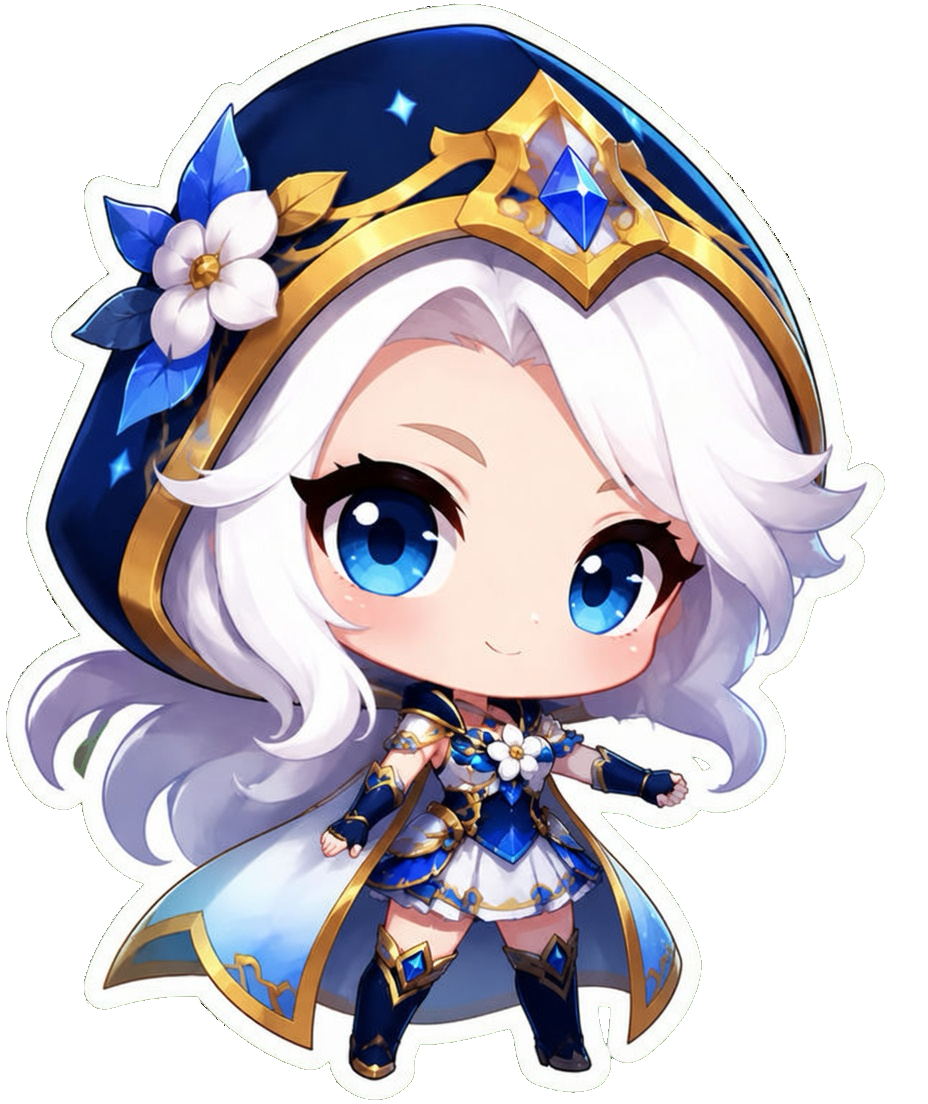
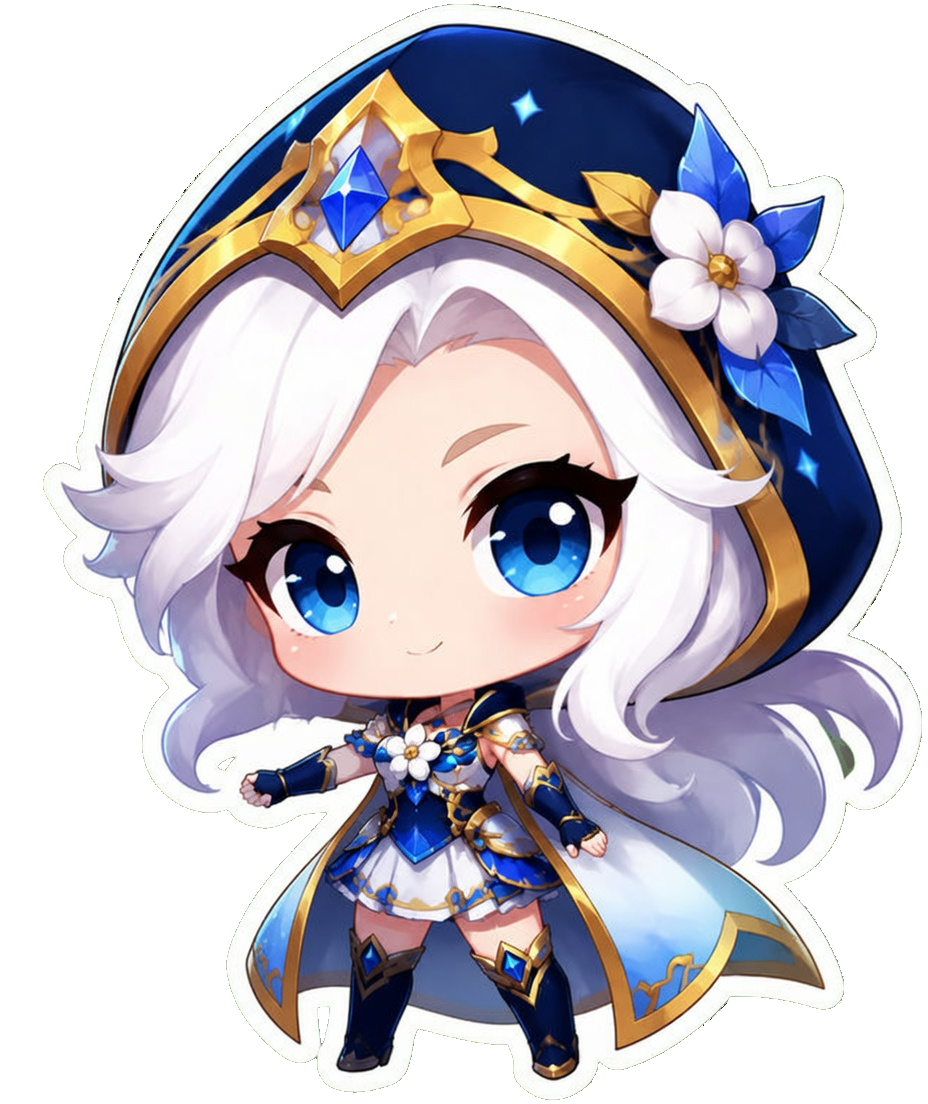
feat(data): 实现 SaveStore 存档系统与本地数据持久化

diff --git a/src/scenes/LevelScene.ts b/src/scenes/LevelScene.ts
@@ -35,8 +35,10 @@ const PLAYER_BODY_R = 18;
 const SPIDER_BODY_R = 20;
 /** 点太近不扔（屏幕像素） */
 const THROW_MIN_DIST = 12;
-/** 血条相对脚底向上的偏移（屏幕像素） */
-const HP_BAR_OFFSET_Y = 86;
+/** 玩家 HUD 血条尺寸 / 底边边距（屏幕像素） */
+const HUD_HP_WIDTH = 240;
+const HUD_HP_HEIGHT = 14;
+const HUD_HP_MARGIN_BOTTOM = 28;
 const PLAYER_MAX_HP = 100;
 /** 击退很强时削弱 WASD 控制（水平速度） */
 const KNOCK_CONTROL_SOFTEN = 220;
@@ -172,8 +174,12 @@ export class LevelScene extends Container implements GameScene {
     this.archer = new FrostArcher(0.07);
     this.sortLayer.addChild(this.archer);
 
-    // 血条在屏幕空间，不进 sortLayer（避免被树/角色遮挡 UI）
-    this.healthBar = new HealthBar({ maxHp: PLAYER_MAX_HP, width: 50, height: 5 });
+    // 玩家血条 HUD：屏幕底部，不进 worldRoot / sortLayer
+    this.healthBar = new HealthBar({
+      maxHp: PLAYER_MAX_HP,
+      width: HUD_HP_WIDTH,
+      height: HUD_HP_HEIGHT,
+    });
     this.healthBar.setHealth(PLAYER_MAX_HP);
     this.addChild(this.healthBar);
 
@@ -210,7 +216,7 @@ export class LevelScene extends Container implements GameScene {
     this.updateCameraAndPlayerBounds();
     this.applyCamera();
     this.syncWorldActors();
-    this.syncHealthBar();
+    this.layoutHealthHud();
     this.layoutPauseMenu();
   }
 
@@ -423,7 +429,6 @@ export class LevelScene extends Container implements GameScene {
     this.syncWorldActors();
     this.cullTrees();
     this.sortDepth();
-    this.syncHealthBar();
   }
 
   /** 缩到刚好看全图，镜头回到地图中心 */
@@ -436,7 +441,6 @@ export class LevelScene extends Container implements GameScene {
     this.syncWorldActors();
     this.cullTrees();
     this.sortDepth();
-    this.syncHealthBar();
   }
 
   private readonly onWheel = (e: WheelEvent): void => {
@@ -510,7 +514,6 @@ export class LevelScene extends Container implements GameScene {
     this.syncWorldActors();
     this.archer.update(deltaMS, moving && !airborne && knockSpeed < 80);
     this.healthBar.update(deltaMS);
-    this.syncHealthBar();
 
     for (const spider of this.spiders) {
       if (!spider.isAlive) continue;
@@ -555,7 +558,6 @@ export class LevelScene extends Container implements GameScene {
     this.updateCameraAndPlayerBounds();
     this.applyCamera();
     this.syncWorldActors();
-    this.syncHealthBar();
     this.sortDepth();
   }
 
@@ -569,7 +571,7 @@ export class LevelScene extends Container implements GameScene {
     this.syncWorldActors();
     this.cullTrees();
     this.sortDepth();
-    this.syncHealthBar();
+    this.layoutHealthHud();
     // 夜色层按地图尺寸铺在地面，不随视口改
     this.layoutPauseMenu();
   }
@@ -674,7 +676,7 @@ export class LevelScene extends Container implements GameScene {
    * 半径 / 伤害 / 击飞速度等全部读 bomb.blast。
    */
   private applyBombBlast(bomb: BombProjectile): void {
-    const face: 1 | -1 = this.archer.scale.x >= 0 ? 1 : -1;
+    const face = this.archer.facingDir;
     const playerHit = bomb.evaluateHit(this.worldX, this.worldY, face);
     if (playerHit) {
       this.healthBar.applyDelta(-playerHit.damage);
@@ -723,15 +725,12 @@ export class LevelScene extends Container implements GameScene {
     this.keyboard.clear();
   }
 
-  /** 血条：世界坐标 → 屏幕坐标，钉在角色头顶 */
-  private syncHealthBar(): void {
-    const z = this.zoom;
-    const sx = this.viewWidth / 2 + (this.worldX - this.camX) * z;
-    const sy =
-      this.viewHeight / 2 +
-      (this.worldY - this.camY) * z -
-      this.knock.height * z;
-    this.healthBar.position.set(sx, sy - HP_BAR_OFFSET_Y * z);
+  /** 玩家血条 HUD：固定在屏幕底部居中 */
+  private layoutHealthHud(): void {
+    this.healthBar.position.set(
+      this.viewWidth / 2,
+      this.viewHeight - HUD_HP_MARGIN_BOTTOM,
+    );
   }
 
   private layoutPauseMenu(): void {

diff --git a/src/ui/HealthBar.ts b/src/ui/HealthBar.ts
@@ -7,8 +7,9 @@ export type HealthBarOptions = {
 };
 
 /**
- * 头顶血条：深色底 + 绿色填充 + 细边框。
- * 不跟角色一起翻转，适合作为角色 sibling 挂在头顶。
+ * 血条：深色底 + 绿色填充 + 细边框。
+ * 以中心为原点；可挂在单位头顶，也可作屏幕 HUD。
+ * 不跟角色一起翻转时，应作为 sibling / 独立 UI 节点，而非贴在会翻转的 sprite 上。
  */
 export class HealthBar extends Container {
   private readonly track: Graphics;
@@ -50,6 +51,10 @@ export class HealthBar extends Container {
     return this.maxHp;
   }
 
+  get size(): { width: number; height: number } {
+    return { width: this.barWidth, height: this.barHeight };
+  }
+
   /** 设置当前 / 最大生命（会钳到合法范围） */
   setHealth(hp: number, maxHp?: number): void {
     if (maxHp !== undefined && maxHp > 0) {
@@ -83,10 +88,10 @@ export class HealthBar extends Container {
   private paintTrack(): void {
     const w = this.barWidth;
     const h = this.barHeight;
-    // 以中心为原点，便于钉在头顶
+    // 以中心为原点，便于钉在头顶 / 屏幕底边居中
     this.track
       .clear()
-      .roundRect(-w / 2, -h / 2, w, h, 3)
+      .roundRect(-w / 2, -h / 2, w, h, Math.min(4, h / 2))
       .fill({ color: 0x1a1a1a, alpha: 0.75 });
   }
 
@@ -95,15 +100,15 @@ export class HealthBar extends Container {
     const h = this.barHeight;
     this.frame
       .clear()
-      .roundRect(-w / 2, -h / 2, w, h, 3)
-      .stroke({ width: 1, color: 0xffffff, alpha: 0.35 });
+      .roundRect(-w / 2, -h / 2, w, h, Math.min(4, h / 2))
+      .stroke({ width: 1.5, color: 0xffffff, alpha: 0.35 });
   }
 
   private paintFill(ratio: number): void {
     const r = Math.max(0, Math.min(1, ratio));
     const w = this.barWidth;
     const h = this.barHeight;
-    const pad = 1;
+    const pad = Math.max(1, Math.round(h * 0.15));
     const innerW = Math.max(0, (w - pad * 2) * r);
     const innerH = h - pad * 2;
     const x0 = -w / 2 + pad;
@@ -116,7 +121,7 @@ export class HealthBar extends Container {
     const color = r > 0.5 ? 0x4caf50 : r > 0.25 ? 0xe6b422 : 0xe53935;
 
     this.fill
-      .roundRect(x0, y0, innerW, innerH, 2)
+      .roundRect(x0, y0, innerW, innerH, Math.min(3, innerH / 2))
       .fill({ color, alpha: 0.95 });
   }
 }

diff --git a/src/main.ts b/src/main.ts
@@ -1,4 +1,6 @@
 import { Application } from 'pixi.js';
+import { LocalSaveStore } from './data/SaveStore';
+import type { SavedScene } from './data/types';
 import { LevelScene } from './scenes/LevelScene';
 import { MainScene } from './scenes/MainScene';
 import { SceneManager } from './scenes/SceneManager';
@@ -22,6 +24,8 @@ async function bootstrap(): Promise<void> {
 
   host.appendChild(app.canvas);
 
+  const saveStore = new LocalSaveStore();
+
   const setBackground = (color: number): void => {
     app.renderer.background.color = color;
     document.body.style.background = `#${color.toString(16).padStart(6, '0')}`;
@@ -32,7 +36,12 @@ async function bootstrap(): Promise<void> {
     height: app.screen.height,
   }));
 
+  const persistScene = (scene: SavedScene): void => {
+    saveStore.saveScene(scene);
+  };
+
   const goMain = (): void => {
+    persistScene({ kind: 'main' });
     void scenes.setScene(
       () =>
         new MainScene(app.screen.width, app.screen.height, {
@@ -43,6 +52,7 @@ async function bootstrap(): Promise<void> {
   };
 
   const goLevel = (theme: LevelTheme): void => {
+    persistScene({ kind: 'level', theme });
     void scenes.setScene(
       () =>
         new LevelScene(app.screen.width, app.screen.height, {
@@ -53,13 +63,26 @@ async function bootstrap(): Promise<void> {
     );
   };
 
-  await scenes.setScene(
-    () =>
-      new MainScene(app.screen.width, app.screen.height, {
-        onSelectLevel: goLevel,
-        onBackground: setBackground,
-      }),
-  );
+  /** 按存档恢复上次场景；损坏 / 无档则进主菜单 */
+  const bootScene = saveStore.load().progress.scene;
+  if (bootScene.kind === 'level') {
+    await scenes.setScene(
+      () =>
+        new LevelScene(app.screen.width, app.screen.height, {
+          theme: bootScene.theme,
+          onBack: goMain,
+          onBackground: setBackground,
+        }),
+    );
+  } else {
+    await scenes.setScene(
+      () =>
+        new MainScene(app.screen.width, app.screen.height, {
+          onSelectLevel: goLevel,
+          onBackground: setBackground,
+        }),
+    );
+  }
 
   app.ticker.add((ticker) => {
     scenes.update(ticker.deltaMS);

diff --git a/src/data/SaveStore.ts b/src/data/SaveStore.ts
@@ -1,0 +1,71 @@
+import { createDefaultSave } from './defaults';
+import type { SaveData, SavedScene } from './types';
+
+const STORAGE_KEY = 'lu-o-lu:save:v1';
+
+function isLevelTheme(value: unknown): value is 'day' | 'night' {
+  return value === 'day' || value === 'night';
+}
+
+function parseSavedScene(raw: unknown): SavedScene | null {
+  if (!raw || typeof raw !== 'object') return null;
+  const scene = raw as { kind?: unknown; theme?: unknown };
+  if (scene.kind === 'main') return { kind: 'main' };
+  if (scene.kind === 'level' && isLevelTheme(scene.theme)) {
+    return { kind: 'level', theme: scene.theme };
+  }
+  return null;
+}
+
+/** 校验并归一化原始 JSON；无法识别则返回 null */
+function parseSaveData(raw: unknown): SaveData | null {
+  if (!raw || typeof raw !== 'object') return null;
+  const data = raw as { version?: unknown; progress?: { scene?: unknown } };
+  if (data.version !== 1) return null;
+  const scene = parseSavedScene(data.progress?.scene);
+  if (!scene) return null;
+  return {
+    version: 1,
+    progress: { scene },
+  };
+}
+
+/**
+ * localStorage 存档读写。
+ * 失败时静默回退，不打断开局。
+ */
+export class LocalSaveStore {
+  load(): SaveData {
+    try {
+      const text = localStorage.getItem(STORAGE_KEY);
+      if (!text) return createDefaultSave();
+      const parsed: unknown = JSON.parse(text);
+      return parseSaveData(parsed) ?? createDefaultSave();
+    } catch {
+      return createDefaultSave();
+    }
+  }
+
+  save(data: SaveData): void {
+    try {
+      localStorage.setItem(STORAGE_KEY, JSON.stringify(data));
+    } catch (err) {
+      console.warn('[SaveStore] save failed:', err);
+    }
+  }
+
+  /** 只更新场景位置并立刻落盘 */
+  saveScene(scene: SavedScene): void {
+    const data = this.load();
+    data.progress.scene = scene;
+    this.save(data);
+  }
+
+  clear(): void {
+    try {
+      localStorage.removeItem(STORAGE_KEY);
+    } catch {
+      /* ignore */
+    }
+  }
+}

diff --git a/src/entities/FrostArcher.ts b/src/entities/FrostArcher.ts
@@ -2,6 +2,13 @@ import { Assets, Container, Sprite } from 'pixi.js';
 
 const PREVIEW_URL = '/assets/frost-archer/preview.png';
 
+/**
+ * 贴图默认水平朝向修正。
+ * preview.png 已左右翻转，未修正时 scale.x>0 会面朝左；
+ * -1 使逻辑朝右（facing=1）时视觉也朝右。
+ */
+const TEXTURE_FLIP_X: 1 | -1 = -1;
+
 /** 走路晃动参数（作用在 sprite 局部，不改世界坐标） */
 const BOB = {
   /** 完整一步的周期（秒） */
@@ -107,8 +114,14 @@ export class FrostArcher extends Container {
 
   private applyContainerScale(): void {
     const s = this.baseScale * this.viewScale;
-    this.scale.x = s * this.facing;
+    // 逻辑朝向 × 贴图修正（scale.x 符号不再等同于 facing）
+    this.scale.x = s * this.facing * TEXTURE_FLIP_X;
     this.scale.y = s;
+  }
+
+  /** 逻辑朝向：1 = 朝右，-1 = 朝左（不受贴图翻转影响） */
+  get facingDir(): 1 | -1 {
+    return this.facing;
   }
 
   /**

diff --git a/src/data/types.ts b/src/data/types.ts
@@ -1,0 +1,14 @@
+import type { LevelTheme } from '../scenes/types';
+
+/** 可持久化的场景位置 */
+export type SavedScene =
+  | { kind: 'main' }
+  | { kind: 'level'; theme: LevelTheme };
+
+/** 本地存档 schema（只扩字段、加 version，不直接塞 Pixi 对象） */
+export type SaveData = {
+  version: 1;
+  progress: {
+    scene: SavedScene;
+  };
+};

diff --git a/src/data/defaults.ts b/src/data/defaults.ts
@@ -1,0 +1,11 @@
+import type { SaveData } from './types';
+
+/** 新档 / 损坏档回退 */
+export function createDefaultSave(): SaveData {
+  return {
+    version: 1,
+    progress: {
+      scene: { kind: 'main' },
+    },
+  };
+}
